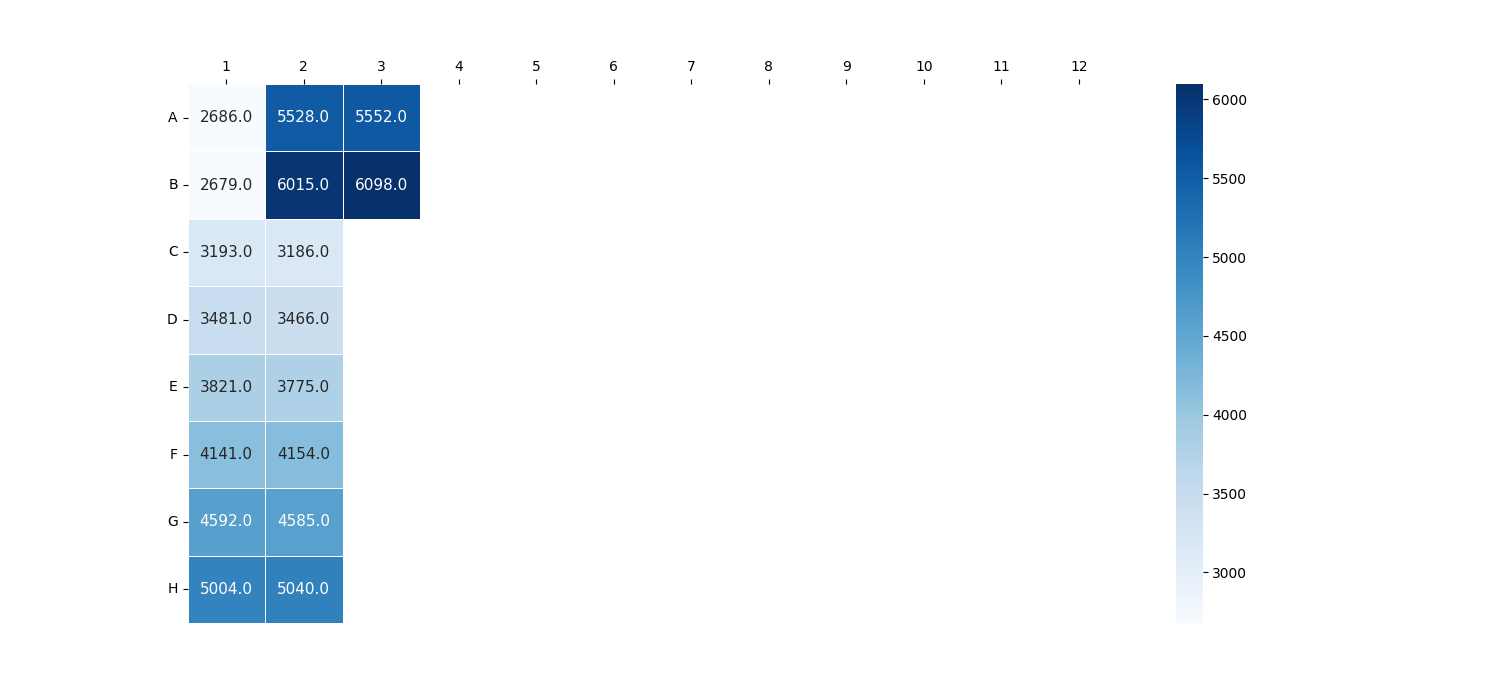
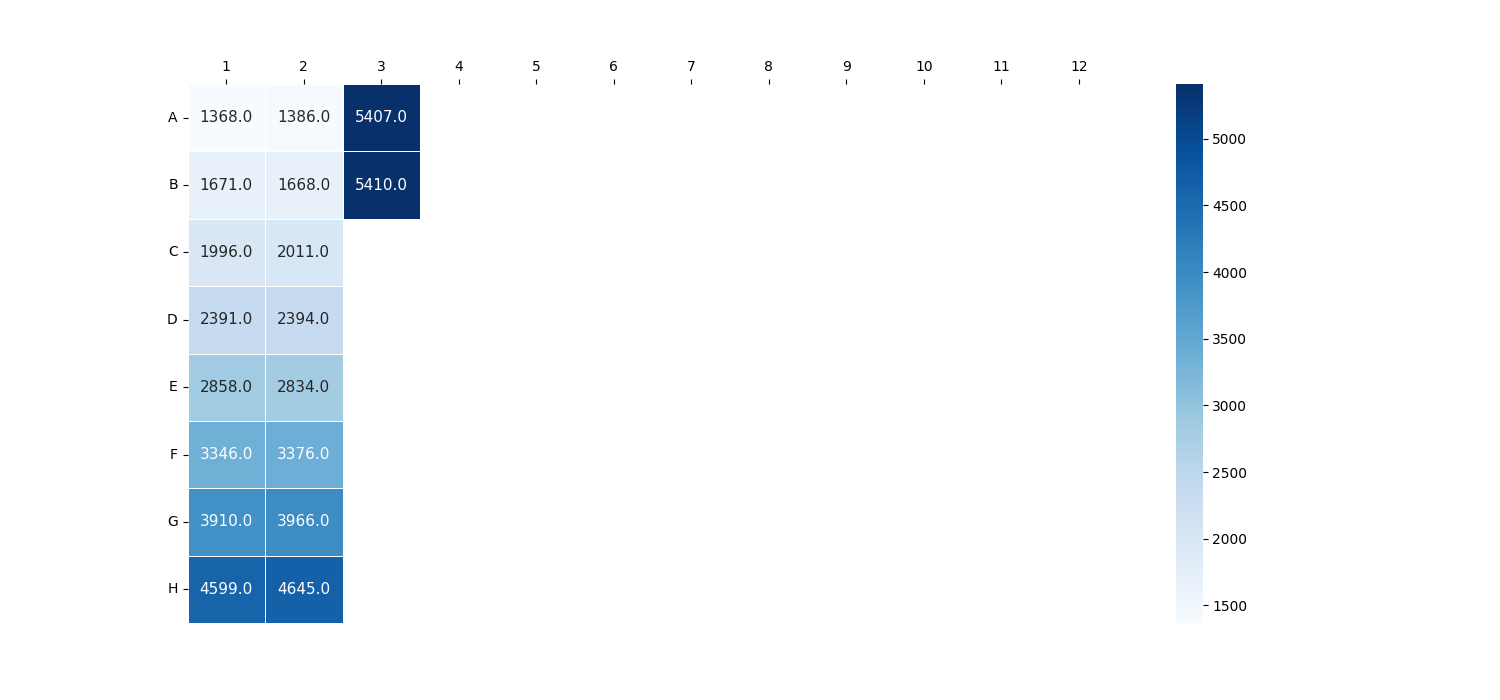
passing criteria changes

diff --git a/web/AutoVV.py b/web/AutoVV.py
@@ -12,6 +12,7 @@ from sklearn.metrics import r2_score
 import statistics
 import openpyxl
 from datetime import datetime
+import scipy.stats
 matplotlib.use('TkAgg',force=True)
 
 now = datetime.now()
@@ -283,9 +284,10 @@ def autoVV_Analysis():
     for value in sample_list:
         try:
             int_value = int(value)
+            volume_calculated.append(round(lr_2.predict(pr.fit_transform([[int_value]]))[0],2))
         except ValueError:
             int_value = 0 
-        volume_calculated.append(round(lr_2.predict(pr.fit_transform([[int_value]]))[0],2))
+            volume_calculated.append(0)
 
     final_volume = DF96well(volume_calculated)
     std_formatted_96well = DF96well(generated_volume_std)
@@ -295,23 +297,32 @@ def autoVV_Analysis():
     createHeatMap(std_formatted_96well,15,7,"STD_plate_map.png",1,RESULTS_PATH_LOCAL,vol_max,vol_min,"auto")
     results_dict = {}
 
-    results_dict= findingStatistics(volume_calculated,vol_expected)
+    results_dict= findingStatistics(volume_calculated,vol_expected,vol_min,vol_max,method_plate)
     
     return(results_dict,vol_expected,method_plate,base_path)
 
 
 
-def findingStatistics(volume,targetVolume):
+def findingStatistics(volume,targetVolume,vol_min,vol_max,method_plate):
     filter_volume = []
-    absolute_error = []      
+    absolute_error = []
+    out_of_range = []       
+
     for x in volume:
         str_x = str(x)
-        if str_x =="NaN" or str_x =="nan":
+        if str_x =="NaN" or str_x =="nan" or x ==0:
             pass
         else:
             volume_error = abs((x-targetVolume)/targetVolume)
             absolute_error.append(volume_error)
             filter_volume.append(float(str_x))
+        if x>vol_max or x<vol_min:
+            out_of_range.append(x)
+        
+    
+
+    int_len_out_of_range = len(out_of_range)
+    print("Out of range: ",int_len_out_of_range)
     print(absolute_error)
     abs_error=(statistics.mean(absolute_error))*100
     Results_dict = {
@@ -324,10 +335,47 @@ def findingStatistics(volume,targetVolume):
     }
     cv =(abs(Results_dict["sample_std"]/Results_dict["sample_avg"])*100)
     # abs_error =(abs((Results_dict["sample_avg"]-float(targetVolume))/float(targetVolume))*100)
-    if abs_error<5.0 and cv <5.0:
+    # if abs_error<5.0 and cv <5.0:
+    #     sample_passfail = "PASS"
+    # else:
+    #     sample_passfail = "FAIL"
+
+    if cv <5.0 and int_len_out_of_range==0:
         sample_passfail = "PASS"
-    else:
+    elif cv>5.0 and int_len_out_of_range==0:
+        sample_passfail = "PASS - MONITOR"
+    elif int_len_out_of_range>10:
         sample_passfail = "FAIL"
+    elif int_len_out_of_range<10 and int_len_out_of_range>0:
+        sorted_volume = sorted(volume)
+        #removing outliers 
+        filtered_volume = sorted_volume[5:91]
+        filtered_stdev =  round(statistics.stdev(filtered_volume),2)
+        filtered_median = round(statistics.median(filtered_volume),2)
+        #95 CI
+        filtered_CI_95_high = filtered_median+ (1.96*(filtered_stdev))
+        filtered_CI_95_low = filtered_median- (1.96*(filtered_stdev))
+        print(filtered_CI_95_high)
+        print(filtered_CI_95_low)
+        #99 CI
+        filtered_CI_99_high = filtered_median+ (2.57*(filtered_stdev))
+        filtered_CI_99_low = filtered_median- (2.57*(filtered_stdev))
+        print(filtered_CI_99_high)
+        print(filtered_CI_99_low)
+        count_95 = 0
+        count_99 = 0
+        for x in filtered_volume:
+            if x>filtered_CI_95_high or x<filtered_CI_95_low:
+                count_95 = count_95 +1
+            elif x>filtered_CI_99_high or x<filtered_CI_99_low:
+                count_99 = count_99 +1
+        print(count_95)
+        print(count_99)
+        if count_95>2:
+            sample_passfail = "FAIL"
+        else:
+            sample_passfail = "PASS"
+
 
     sample_abserror =str(round(abs_error,2)) + "%"
     sample_cv = str(round(cv,2)) + "%"
@@ -337,5 +385,6 @@ def findingStatistics(volume,targetVolume):
     print(Results_dict)
 
     return Results_dict
+
 # results = {}
 # results,vol_expected,method_plate= autoVV_Analysis()
